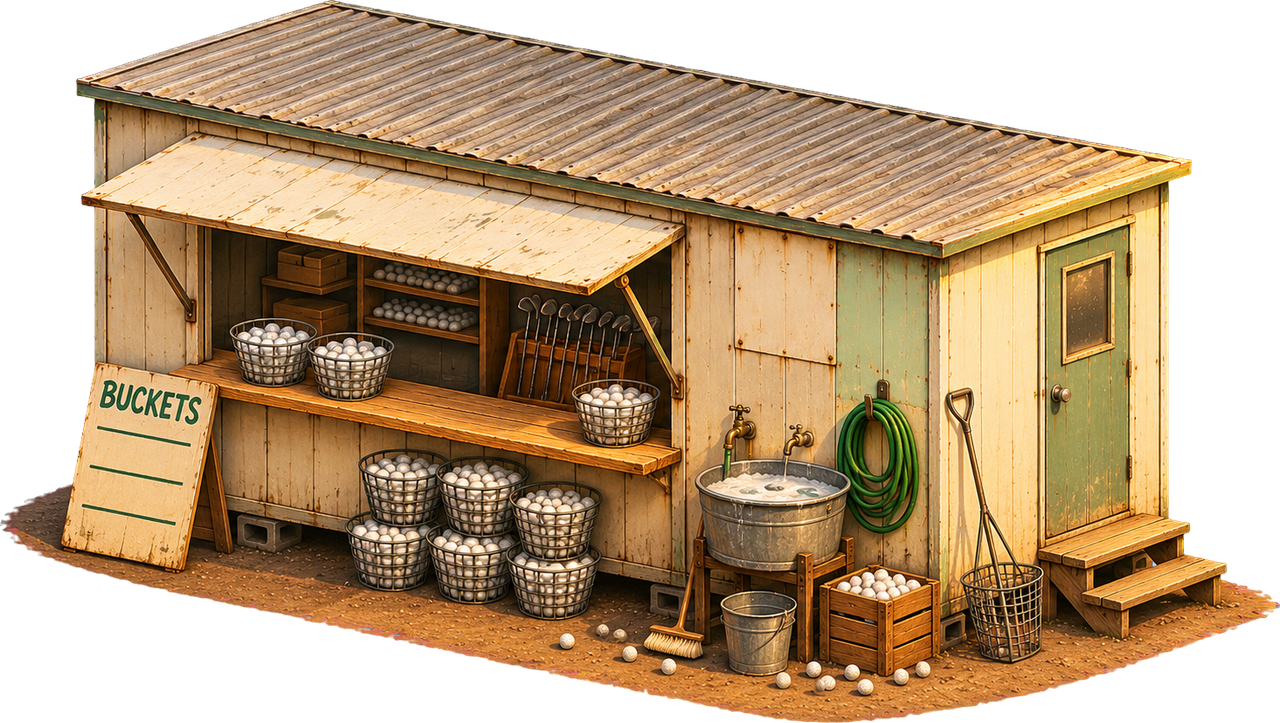
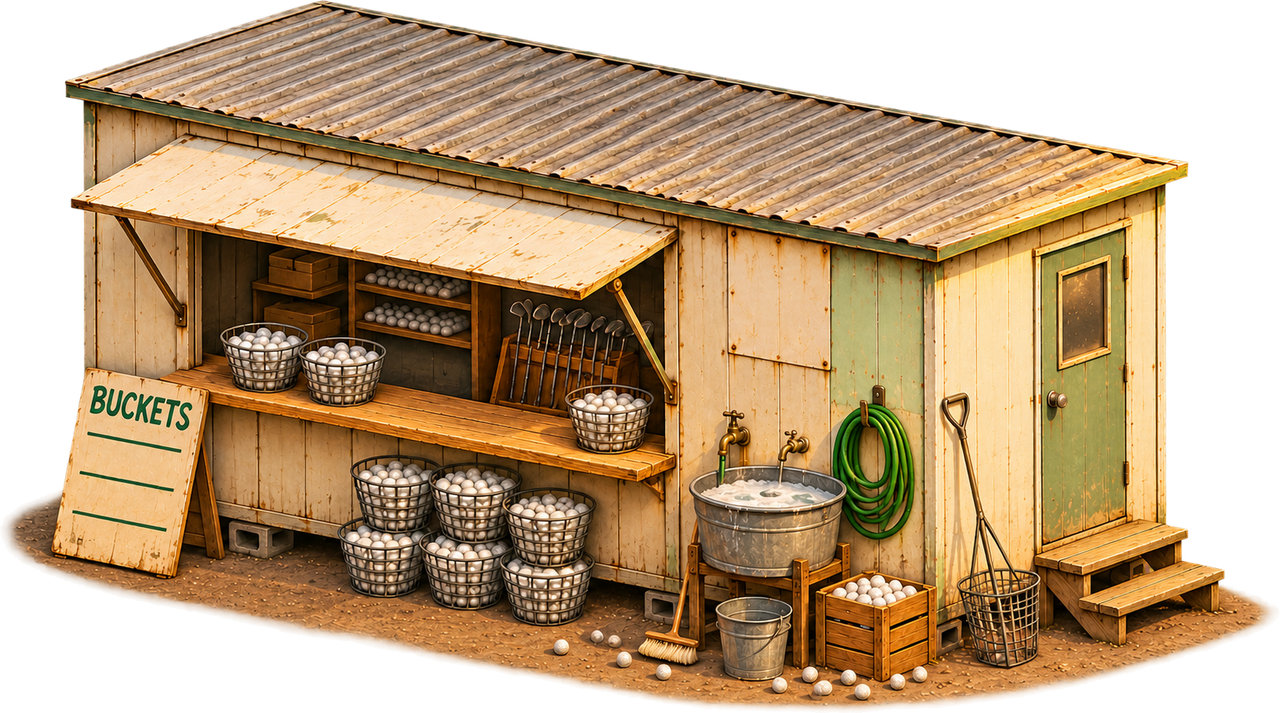
Range shop: the two views repainted on a transparent background (v5), imported with their own alpha: no key, no pink in the basket wires
The v4 masters are kept in art/range-kit/old/. The shop's drafted shadow shape is unchanged (the draft step's dev server would not start in this sparse checkout; the outline is the same building).

diff --git a/src/game/golf-library.ts b/src/game/golf-library.ts
@@ -23,7 +23,7 @@ export function appendKit(library: LibItem[]) {
   for (const item of KIT) if (!removed.has(item.id)) library.push({ ...item, tex: [golfPage, ...item.tex.slice(1)] as LibItem["tex"] });
 }
 /** T258: the range art (art/range-kit, prep-range-art.mjs: the owner's ChatGPT buildings and signs), on the golf page */
-const RANGE: LibItem[] = [{"id":"range:golf-range-deck-view2","name":"Double-deck hitting stand (view 2)","cat":"Range art","kind":"business","w":864,"h":771.39,"ax":432,"ay":560.02,"boxes":[{"hx":3.5,"hy":10,"dx":0,"dy":0}],"solid":1,"big":true,"door":false,"cost":0,"tex":[0,0.44287109375,0.458984375,0.69580078125,0.68505859375],"quad":[0,0,864,771.39]},{"id":"range:golf-range-floodlight-view1","name":"Floodlight mast (view 1)","cat":"Range art","kind":"business","w":290.405,"h":768,"ax":189.912,"ay":752,"boxes":[{"hx":0.5,"hy":0.5,"dx":0,"dy":0}],"solid":1,"big":false,"door":false,"cost":0,"tex":[0,0.70361328125,0.458984375,0.78857421875,0.68408203125],"quad":[0,0,290.405,768]},{"id":"range:golf-range-floodlight-view2","name":"Floodlight mast (view 2)","cat":"Range art","kind":"business","w":254.676,"h":768,"ax":97.373,"ay":752,"boxes":[{"hx":0.5,"hy":0.5,"dx":0,"dy":0}],"solid":1,"big":false,"door":false,"cost":0,"tex":[0,0.79638671875,0.458984375,0.87109375,0.68408203125],"quad":[0,0,254.676,768]},{"id":"range:golf-range-deck-view1","name":"Double-deck hitting stand (view 1)","cat":"Range art","kind":"business","w":864,"h":730.085,"ax":432,"ay":538.636,"boxes":[{"hx":10,"hy":3.5,"dx":0,"dy":0}],"solid":1,"big":true,"door":false,"cost":0,"tex":[0,0.0078125,0.69287109375,0.2607421875,0.90673828125],"quad":[0,0,864,730.085]},{"id":"range:golf-clubhouse-shanty-view1","name":"Range shop (asbestos-panel hut) (view 1)","cat":"Range art","kind":"business","w":640,"h":361.381,"ax":320,"ay":284.252,"boxes":[{"hx":6,"hy":4,"dx":0,"dy":0}],"solid":1,"big":true,"door":false,"cost":0,"tex":[0,0.2685546875,0.69287109375,0.4560546875,0.798828125],"quad":[0,0,640,361.381]},{"id":"range:golf-clubhouse-shanty-view2","name":"Range shop (asbestos-panel hut) (view 2)","cat":"Range art","kind":"business","w":640,"h":356.499,"ax":320,"ay":274.589,"boxes":[{"hx":4,"hy":6,"dx":0,"dy":0}],"solid":1,"big":true,"door":false,"cost":0,"tex":[0,0.4638671875,0.69287109375,0.6513671875,0.79736328125],"quad":[0,0,640,356.499]},{"id":"range:golf-range-coffee-kiosk-view1","name":"Coffee kiosk (view 1)","cat":"Range art","kind":"business","w":176,"h":175.019,"ax":88,"ay":138.986,"boxes":[{"hx":1.5,"hy":1.25,"dx":0,"dy":0}],"solid":1,"big":false,"door":false,"cost":0,"tex":[0,0.6591796875,0.69287109375,0.7109375,0.744140625],"quad":[0,0,176,175.019]},{"id":"range:golf-range-coffee-kiosk-view2","name":"Coffee kiosk (view 2)","cat":"Range art","kind":"business","w":176,"h":175.749,"ax":88,"ay":135.259,"boxes":[{"hx":1.25,"hy":1.5,"dx":0,"dy":0}],"solid":1,"big":false,"door":false,"cost":0,"tex":[0,0.71875,0.69287109375,0.7705078125,0.744140625],"quad":[0,0,176,175.749]},{"id":"range:golf-range-sign-view2","name":"Driving Range road sign (view 2)","cat":"Range art","kind":"business","w":144,"h":151.969,"ax":72,"ay":115.923,"boxes":[{"hx":0.25,"hy":2,"dx":0,"dy":0}],"solid":1,"big":false,"door":false,"cost":0,"tex":[0,0.7783203125,0.69287109375,0.8203125,0.7373046875],"quad":[0,0,144,151.969]},{"id":"range:golf-range-yardage-board-view2","name":"Yardage board (view 2)","cat":"Range art","kind":"business","w":80,"h":139.557,"ax":40,"ay":128.048,"boxes":[{"hx":0.25,"hy":1,"dx":0,"dy":0}],"solid":1,"big":false,"door":false,"cost":0,"tex":[0,0.828125,0.69287109375,0.8515625,0.73388671875],"quad":[0,0,80,139.557]},{"id":"range:golf-range-yard-50-view2","name":"Yardage sign 50 m (view 2)","cat":"Range art","kind":"business","w":80,"h":140,"ax":40,"ay":128.629,"boxes":[{"hx":0.25,"hy":1,"dx":0,"dy":0}],"solid":1,"big":false,"door":false,"cost":0,"tex":[0,0.859375,0.69287109375,0.8828125,0.73388671875],"quad":[0,0,80,140]},{"id":"range:golf-range-yard-75-view2","name":"Yardage sign 75 m (view 2)","cat":"Range art","kind":"business","w":80,"h":139.839,"ax":40,"ay":128.306,"boxes":[{"hx":0.25,"hy":1,"dx":0,"dy":0}],"solid":1,"big":false,"door":false,"cost":0,"tex":[0,0.890625,0.69287109375,0.9140625,0.73388671875],"quad":[0,0,80,139.839]},{"id":"range:golf-range-yard-100-view2","name":"Yardage sign 100 m (view 2)","cat":"Range art","kind":"business","w":80,"h":140.121,"ax":40,"ay":128.646,"boxes":[{"hx":0.25,"hy":1,"dx":0,"dy":0}],"solid":1,"big":false,"door":false,"cost":0,"tex":[0,0.921875,0.69287109375,0.9453125,0.73388671875],"quad":[0,0,80,140.121]},{"id":"range:golf-range-yard-125-view2","name":"Yardage sign 125 m (view 2)","cat":"Range art","kind":"business","w":80,"h":140.283,"ax":40,"ay":128.808,"boxes":[{"hx":0.25,"hy":1,"dx":0,"dy":0}],"solid":1,"big":false,"door":false,"cost":0,"tex":[0,0.953125,0.69287109375,0.9765625,0.73388671875],"quad":[0,0,80,140.283]},{"id":"range:golf-range-yard-150-view2","name":"Yardage sign 150 m (view 2)","cat":"Range art","kind":"business","w":80,"h":140.283,"ax":40,"ay":128.646,"boxes":[{"hx":0.25,"hy":1,"dx":0,"dy":0}],"solid":1,"big":false,"door":false,"cost":0,"tex":[0,0.0078125,0.91455078125,0.03125,0.95556640625],"quad":[0,0,80,140.283]},{"id":"range:golf-range-yard-175-view2","name":"Yardage sign 175 m (view 2)","cat":"Range art","kind":"business","w":80,"h":139.677,"ax":40,"ay":128.145,"boxes":[{"hx":0.25,"hy":1,"dx":0,"dy":0}],"solid":1,"big":false,"door":false,"cost":0,"tex":[0,0.0390625,0.91455078125,0.0625,0.95556640625],"quad":[0,0,80,139.677]},{"id":"range:golf-range-yard-200-view2","name":"Yardage sign 200 m (view 2)","cat":"Range art","kind":"business","w":80,"h":140.567,"ax":40,"ay":128.988,"boxes":[{"hx":0.25,"hy":1,"dx":0,"dy":0}],"solid":1,"big":false,"door":false,"cost":0,"tex":[0,0.0703125,0.91455078125,0.09375,0.95556640625],"quad":[0,0,80,140.567]},{"id":"range:golf-range-yard-250-view2","name":"Yardage sign 250 m (view 2)","cat":"Range art","kind":"business","w":80,"h":140.567,"ax":40,"ay":128.988,"boxes":[{"hx":0.25,"hy":1,"dx":0,"dy":0}],"solid":1,"big":false,"door":false,"cost":0,"tex":[0,0.1015625,0.91455078125,0.125,0.95556640625],"quad":[0,0,80,140.567]},{"id":"range:golf-range-sign-view1","name":"Driving Range road sign (view 1)","cat":"Range art","kind":"business","w":144,"h":135.692,"ax":72,"ay":107.186,"boxes":[{"hx":2,"hy":0.25,"dx":0,"dy":0}],"solid":1,"big":false,"door":false,"cost":0,"tex":[0,0.1328125,0.91455078125,0.1748046875,0.9541015625],"quad":[0,0,144,135.692]},{"id":"range:golf-range-yardage-board-view1","name":"Yardage board (view 1)","cat":"Range art","kind":"business","w":80,"h":134.72,"ax":40,"ay":125.68,"boxes":[{"hx":1,"hy":0.25,"dx":0,"dy":0}],"solid":1,"big":false,"door":false,"cost":0,"tex":[0,0.1826171875,0.91455078125,0.2060546875,0.9541015625],"quad":[0,0,80,134.72]},{"id":"range:golf-range-yard-75-view1","name":"Yardage sign 75 m (view 1)","cat":"Range art","kind":"business","w":80,"h":134.72,"ax":40,"ay":125.68,"boxes":[{"hx":1,"hy":0.25,"dx":0,"dy":0}],"solid":1,"big":false,"door":false,"cost":0,"tex":[0,0.2138671875,0.91455078125,0.2373046875,0.9541015625],"quad":[0,0,80,134.72]},{"id":"range:golf-range-yard-100-view1","name":"Yardage sign 100 m (view 1)","cat":"Range art","kind":"business","w":80,"h":134.779,"ax":40,"ay":125.944,"boxes":[{"hx":1,"hy":0.25,"dx":0,"dy":0}],"solid":1,"big":false,"door":false,"cost":0,"tex":[0,0.2451171875,0.91455078125,0.2685546875,0.9541015625],"quad":[0,0,80,134.779]},{"id":"range:golf-range-yard-125-view1","name":"Yardage sign 125 m (view 1)","cat":"Range art","kind":"business","w":80,"h":134.72,"ax":40,"ay":125.68,"boxes":[{"hx":1,"hy":0.25,"dx":0,"dy":0}],"solid":1,"big":false,"door":false,"cost":0,"tex":[0,0.2763671875,0.91455078125,0.2998046875,0.9541015625],"quad":[0,0,80,134.72]},{"id":"range:golf-range-yard-150-view1","name":"Yardage sign 150 m (view 1)","cat":"Range art","kind":"business","w":80,"h":135.1,"ax":40,"ay":126.104,"boxes":[{"hx":1,"hy":0.25,"dx":0,"dy":0}],"solid":1,"big":false,"door":false,"cost":0,"tex":[0,0.3076171875,0.91455078125,0.3310546875,0.9541015625],"quad":[0,0,80,135.1]},{"id":"range:golf-range-yard-175-view1","name":"Yardage sign 175 m (view 1)","cat":"Range art","kind":"business","w":80,"h":134.72,"ax":40,"ay":125.6,"boxes":[{"hx":1,"hy":0.25,"dx":0,"dy":0}],"solid":1,"big":false,"door":false,"cost":0,"tex":[0,0.3388671875,0.91455078125,0.3623046875,0.9541015625],"quad":[0,0,80,134.72]},{"id":"range:golf-range-yard-200-view1","name":"Yardage sign 200 m (view 1)","cat":"Range art","kind":"business","w":80,"h":134.509,"ax":40,"ay":125.531,"boxes":[{"hx":1,"hy":0.25,"dx":0,"dy":0}],"solid":1,"big":false,"door":false,"cost":0,"tex":[0,0.3701171875,0.91455078125,0.3935546875,0.9541015625],"quad":[0,0,80,134.509]},{"id":"range:golf-range-yard-250-view1","name":"Yardage sign 250 m (view 1)","cat":"Range art","kind":"business","w":80,"h":134.72,"ax":40,"ay":125.84,"boxes":[{"hx":1,"hy":0.25,"dx":0,"dy":0}],"solid":1,"big":false,"door":false,"cost":0,"tex":[0,0.4013671875,0.91455078125,0.4248046875,0.9541015625],"quad":[0,0,80,134.72]},{"id":"range:golf-range-yard-50-view1","name":"Yardage sign 50 m (view 1)","cat":"Range art","kind":"business","w":80,"h":133.798,"ax":40,"ay":124.729,"boxes":[{"hx":1,"hy":0.25,"dx":0,"dy":0}],"solid":1,"big":false,"door":false,"cost":0,"tex":[0,0.4326171875,0.91455078125,0.4560546875,0.95361328125],"quad":[0,0,80,133.798]},{"id":"range:golf-range-ball-dispenser-view2","name":"Ball dispenser (view 2)","cat":"Range art","kind":"business","w":80,"h":107.365,"ax":40,"ay":89.034,"boxes":[{"hx":0.5,"hy":0.75,"dx":0,"dy":0}],"solid":1,"big":false,"door":false,"cost":0,"tex":[0,0.4638671875,0.91455078125,0.4873046875,0.94580078125],"quad":[0,0,80,107.365]},{"id":"range:golf-range-ball-dispenser-view1","name":"Ball dispenser (view 1)","cat":"Range art","kind":"business","w":80,"h":104.495,"ax":40,"ay":93.876,"boxes":[{"hx":0.75,"hy":0.5,"dx":0,"dy":0}],"solid":1,"big":false,"door":false,"cost":0,"tex":[0,0.4951171875,0.91455078125,0.5185546875,0.9453125],"quad":[0,0,80,104.495]},{"id":"range:golf-range-distance-post-1view","name":"Distance marker post","cat":"Range art","kind":"business","w":25.969,"h":96,"ax":14.072,"ay":88,"boxes":[{"hx":0.25,"hy":0.25,"dx":0,"dy":0}],"solid":1,"big":false,"door":false,"cost":0,"tex":[0,0.5263671875,0.91455078125,0.5341796875,0.94287109375],"quad":[0,0,25.969,96]}];
+const RANGE: LibItem[] = [{"id":"range:golf-range-deck-view2","name":"Double-deck hitting stand (view 2)","cat":"Range art","kind":"business","w":864,"h":771.39,"ax":432,"ay":560.02,"boxes":[{"hx":3.5,"hy":10,"dx":0,"dy":0}],"solid":1,"big":true,"door":false,"cost":0,"tex":[0,0.44287109375,0.458984375,0.69580078125,0.68505859375],"quad":[0,0,864,771.39]},{"id":"range:golf-range-floodlight-view1","name":"Floodlight mast (view 1)","cat":"Range art","kind":"business","w":290.405,"h":768,"ax":189.912,"ay":752,"boxes":[{"hx":0.5,"hy":0.5,"dx":0,"dy":0}],"solid":1,"big":false,"door":false,"cost":0,"tex":[0,0.70361328125,0.458984375,0.78857421875,0.68408203125],"quad":[0,0,290.405,768]},{"id":"range:golf-range-floodlight-view2","name":"Floodlight mast (view 2)","cat":"Range art","kind":"business","w":254.676,"h":768,"ax":97.373,"ay":752,"boxes":[{"hx":0.5,"hy":0.5,"dx":0,"dy":0}],"solid":1,"big":false,"door":false,"cost":0,"tex":[0,0.79638671875,0.458984375,0.87109375,0.68408203125],"quad":[0,0,254.676,768]},{"id":"range:golf-range-deck-view1","name":"Double-deck hitting stand (view 1)","cat":"Range art","kind":"business","w":864,"h":730.085,"ax":432,"ay":538.636,"boxes":[{"hx":10,"hy":3.5,"dx":0,"dy":0}],"solid":1,"big":true,"door":false,"cost":0,"tex":[0,0.0078125,0.69287109375,0.2607421875,0.90673828125],"quad":[0,0,864,730.085]},{"id":"range:golf-clubhouse-shanty-view1","name":"Range shop (asbestos-panel hut) (view 1)","cat":"Range art","kind":"business","w":640,"h":356.683,"ax":320,"ay":288.976,"boxes":[{"hx":6,"hy":4,"dx":0,"dy":0}],"solid":1,"big":true,"door":false,"cost":0,"tex":[0,0.2685546875,0.69287109375,0.4560546875,0.79736328125],"quad":[0,0,640,356.683]},{"id":"range:golf-clubhouse-shanty-view2","name":"Range shop (asbestos-panel hut) (view 2)","cat":"Range art","kind":"business","w":640,"h":356.687,"ax":320,"ay":274.619,"boxes":[{"hx":4,"hy":6,"dx":0,"dy":0}],"solid":1,"big":true,"door":false,"cost":0,"tex":[0,0.4638671875,0.69287109375,0.6513671875,0.79736328125],"quad":[0,0,640,356.687]},{"id":"range:golf-range-coffee-kiosk-view1","name":"Coffee kiosk (view 1)","cat":"Range art","kind":"business","w":176,"h":175.019,"ax":88,"ay":138.986,"boxes":[{"hx":1.5,"hy":1.25,"dx":0,"dy":0}],"solid":1,"big":false,"door":false,"cost":0,"tex":[0,0.6591796875,0.69287109375,0.7109375,0.744140625],"quad":[0,0,176,175.019]},{"id":"range:golf-range-coffee-kiosk-view2","name":"Coffee kiosk (view 2)","cat":"Range art","kind":"business","w":176,"h":175.749,"ax":88,"ay":135.259,"boxes":[{"hx":1.25,"hy":1.5,"dx":0,"dy":0}],"solid":1,"big":false,"door":false,"cost":0,"tex":[0,0.71875,0.69287109375,0.7705078125,0.744140625],"quad":[0,0,176,175.749]},{"id":"range:golf-range-sign-view2","name":"Driving Range road sign (view 2)","cat":"Range art","kind":"business","w":144,"h":151.969,"ax":72,"ay":115.923,"boxes":[{"hx":0.25,"hy":2,"dx":0,"dy":0}],"solid":1,"big":false,"door":false,"cost":0,"tex":[0,0.7783203125,0.69287109375,0.8203125,0.7373046875],"quad":[0,0,144,151.969]},{"id":"range:golf-range-yardage-board-view2","name":"Yardage board (view 2)","cat":"Range art","kind":"business","w":80,"h":139.557,"ax":40,"ay":128.048,"boxes":[{"hx":0.25,"hy":1,"dx":0,"dy":0}],"solid":1,"big":false,"door":false,"cost":0,"tex":[0,0.828125,0.69287109375,0.8515625,0.73388671875],"quad":[0,0,80,139.557]},{"id":"range:golf-range-yard-50-view2","name":"Yardage sign 50 m (view 2)","cat":"Range art","kind":"business","w":80,"h":140,"ax":40,"ay":128.629,"boxes":[{"hx":0.25,"hy":1,"dx":0,"dy":0}],"solid":1,"big":false,"door":false,"cost":0,"tex":[0,0.859375,0.69287109375,0.8828125,0.73388671875],"quad":[0,0,80,140]},{"id":"range:golf-range-yard-75-view2","name":"Yardage sign 75 m (view 2)","cat":"Range art","kind":"business","w":80,"h":139.839,"ax":40,"ay":128.306,"boxes":[{"hx":0.25,"hy":1,"dx":0,"dy":0}],"solid":1,"big":false,"door":false,"cost":0,"tex":[0,0.890625,0.69287109375,0.9140625,0.73388671875],"quad":[0,0,80,139.839]},{"id":"range:golf-range-yard-100-view2","name":"Yardage sign 100 m (view 2)","cat":"Range art","kind":"business","w":80,"h":140.121,"ax":40,"ay":128.646,"boxes":[{"hx":0.25,"hy":1,"dx":0,"dy":0}],"solid":1,"big":false,"door":false,"cost":0,"tex":[0,0.921875,0.69287109375,0.9453125,0.73388671875],"quad":[0,0,80,140.121]},{"id":"range:golf-range-yard-125-view2","name":"Yardage sign 125 m (view 2)","cat":"Range art","kind":"business","w":80,"h":140.283,"ax":40,"ay":128.808,"boxes":[{"hx":0.25,"hy":1,"dx":0,"dy":0}],"solid":1,"big":false,"door":false,"cost":0,"tex":[0,0.953125,0.69287109375,0.9765625,0.73388671875],"quad":[0,0,80,140.283]},{"id":"range:golf-range-yard-150-view2","name":"Yardage sign 150 m (view 2)","cat":"Range art","kind":"business","w":80,"h":140.283,"ax":40,"ay":128.646,"boxes":[{"hx":0.25,"hy":1,"dx":0,"dy":0}],"solid":1,"big":false,"door":false,"cost":0,"tex":[0,0.0078125,0.91455078125,0.03125,0.95556640625],"quad":[0,0,80,140.283]},{"id":"range:golf-range-yard-175-view2","name":"Yardage sign 175 m (view 2)","cat":"Range art","kind":"business","w":80,"h":139.677,"ax":40,"ay":128.145,"boxes":[{"hx":0.25,"hy":1,"dx":0,"dy":0}],"solid":1,"big":false,"door":false,"cost":0,"tex":[0,0.0390625,0.91455078125,0.0625,0.95556640625],"quad":[0,0,80,139.677]},{"id":"range:golf-range-yard-200-view2","name":"Yardage sign 200 m (view 2)","cat":"Range art","kind":"business","w":80,"h":140.567,"ax":40,"ay":128.988,"boxes":[{"hx":0.25,"hy":1,"dx":0,"dy":0}],"solid":1,"big":false,"door":false,"cost":0,"tex":[0,0.0703125,0.91455078125,0.09375,0.95556640625],"quad":[0,0,80,140.567]},{"id":"range:golf-range-yard-250-view2","name":"Yardage sign 250 m (view 2)","cat":"Range art","kind":"business","w":80,"h":140.567,"ax":40,"ay":128.988,"boxes":[{"hx":0.25,"hy":1,"dx":0,"dy":0}],"solid":1,"big":false,"door":false,"cost":0,"tex":[0,0.1015625,0.91455078125,0.125,0.95556640625],"quad":[0,0,80,140.567]},{"id":"range:golf-range-sign-view1","name":"Driving Range road sign (view 1)","cat":"Range art","kind":"business","w":144,"h":135.692,"ax":72,"ay":107.186,"boxes":[{"hx":2,"hy":0.25,"dx":0,"dy":0}],"solid":1,"big":false,"door":false,"cost":0,"tex":[0,0.1328125,0.91455078125,0.1748046875,0.9541015625],"quad":[0,0,144,135.692]},{"id":"range:golf-range-yardage-board-view1","name":"Yardage board (view 1)","cat":"Range art","kind":"business","w":80,"h":134.72,"ax":40,"ay":125.68,"boxes":[{"hx":1,"hy":0.25,"dx":0,"dy":0}],"solid":1,"big":false,"door":false,"cost":0,"tex":[0,0.1826171875,0.91455078125,0.2060546875,0.9541015625],"quad":[0,0,80,134.72]},{"id":"range:golf-range-yard-75-view1","name":"Yardage sign 75 m (view 1)","cat":"Range art","kind":"business","w":80,"h":134.72,"ax":40,"ay":125.68,"boxes":[{"hx":1,"hy":0.25,"dx":0,"dy":0}],"solid":1,"big":false,"door":false,"cost":0,"tex":[0,0.2138671875,0.91455078125,0.2373046875,0.9541015625],"quad":[0,0,80,134.72]},{"id":"range:golf-range-yard-100-view1","name":"Yardage sign 100 m (view 1)","cat":"Range art","kind":"business","w":80,"h":134.779,"ax":40,"ay":125.944,"boxes":[{"hx":1,"hy":0.25,"dx":0,"dy":0}],"solid":1,"big":false,"door":false,"cost":0,"tex":[0,0.2451171875,0.91455078125,0.2685546875,0.9541015625],"quad":[0,0,80,134.779]},{"id":"range:golf-range-yard-125-view1","name":"Yardage sign 125 m (view 1)","cat":"Range art","kind":"business","w":80,"h":134.72,"ax":40,"ay":125.68,"boxes":[{"hx":1,"hy":0.25,"dx":0,"dy":0}],"solid":1,"big":false,"door":false,"cost":0,"tex":[0,0.2763671875,0.91455078125,0.2998046875,0.9541015625],"quad":[0,0,80,134.72]},{"id":"range:golf-range-yard-150-view1","name":"Yardage sign 150 m (view 1)","cat":"Range art","kind":"business","w":80,"h":135.1,"ax":40,"ay":126.104,"boxes":[{"hx":1,"hy":0.25,"dx":0,"dy":0}],"solid":1,"big":false,"door":false,"cost":0,"tex":[0,0.3076171875,0.91455078125,0.3310546875,0.9541015625],"quad":[0,0,80,135.1]},{"id":"range:golf-range-yard-175-view1","name":"Yardage sign 175 m (view 1)","cat":"Range art","kind":"business","w":80,"h":134.72,"ax":40,"ay":125.6,"boxes":[{"hx":1,"hy":0.25,"dx":0,"dy":0}],"solid":1,"big":false,"door":false,"cost":0,"tex":[0,0.3388671875,0.91455078125,0.3623046875,0.9541015625],"quad":[0,0,80,134.72]},{"id":"range:golf-range-yard-200-view1","name":"Yardage sign 200 m (view 1)","cat":"Range art","kind":"business","w":80,"h":134.509,"ax":40,"ay":125.531,"boxes":[{"hx":1,"hy":0.25,"dx":0,"dy":0}],"solid":1,"big":false,"door":false,"cost":0,"tex":[0,0.3701171875,0.91455078125,0.3935546875,0.9541015625],"quad":[0,0,80,134.509]},{"id":"range:golf-range-yard-250-view1","name":"Yardage sign 250 m (view 1)","cat":"Range art","kind":"business","w":80,"h":134.72,"ax":40,"ay":125.84,"boxes":[{"hx":1,"hy":0.25,"dx":0,"dy":0}],"solid":1,"big":false,"door":false,"cost":0,"tex":[0,0.4013671875,0.91455078125,0.4248046875,0.9541015625],"quad":[0,0,80,134.72]},{"id":"range:golf-range-yard-50-view1","name":"Yardage sign 50 m (view 1)","cat":"Range art","kind":"business","w":80,"h":133.798,"ax":40,"ay":124.729,"boxes":[{"hx":1,"hy":0.25,"dx":0,"dy":0}],"solid":1,"big":false,"door":false,"cost":0,"tex":[0,0.4326171875,0.91455078125,0.4560546875,0.95361328125],"quad":[0,0,80,133.798]},{"id":"range:golf-range-ball-dispenser-view2","name":"Ball dispenser (view 2)","cat":"Range art","kind":"business","w":80,"h":107.365,"ax":40,"ay":89.034,"boxes":[{"hx":0.5,"hy":0.75,"dx":0,"dy":0}],"solid":1,"big":false,"door":false,"cost":0,"tex":[0,0.4638671875,0.91455078125,0.4873046875,0.94580078125],"quad":[0,0,80,107.365]},{"id":"range:golf-range-ball-dispenser-view1","name":"Ball dispenser (view 1)","cat":"Range art","kind":"business","w":80,"h":104.495,"ax":40,"ay":93.876,"boxes":[{"hx":0.75,"hy":0.5,"dx":0,"dy":0}],"solid":1,"big":false,"door":false,"cost":0,"tex":[0,0.4951171875,0.91455078125,0.5185546875,0.9453125],"quad":[0,0,80,104.495]},{"id":"range:golf-range-distance-post-1view","name":"Distance marker post","cat":"Range art","kind":"business","w":25.969,"h":96,"ax":14.072,"ay":88,"boxes":[{"hx":0.25,"hy":0.25,"dx":0,"dy":0}],"solid":1,"big":false,"door":false,"cost":0,"tex":[0,0.5263671875,0.91455078125,0.5341796875,0.94287109375],"quad":[0,0,25.969,96]}];
 /** T258: the range art, after every other library (it shares the golf page: appendGolf must have run), so no saved index moves */
 export function appendRangeArt(library: LibItem[]) {
   if (golfPage < 0) throw new Error('appendRangeArt before appendGolf');
